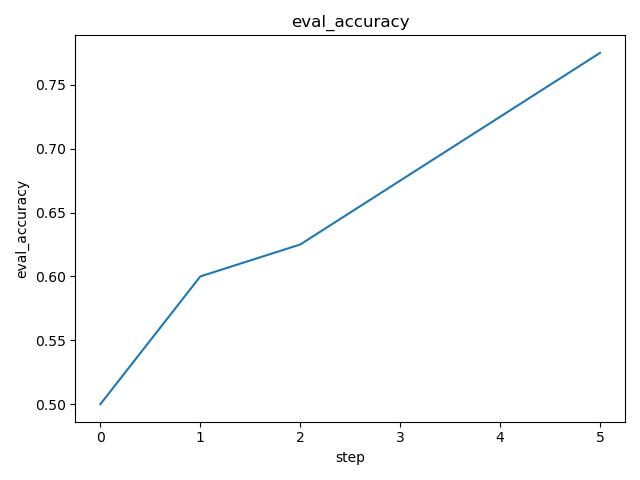
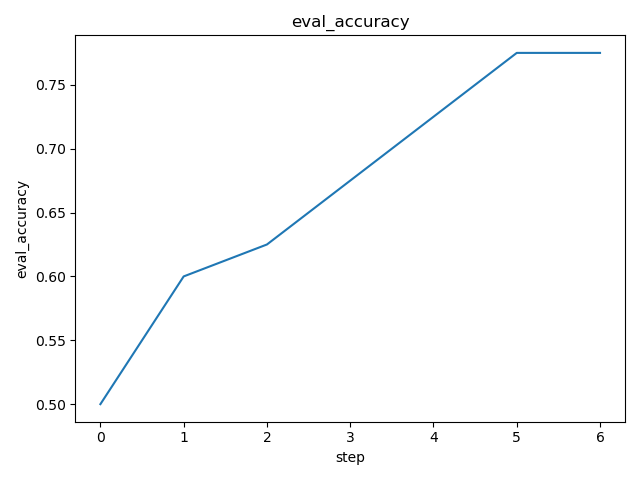
dvc: commit experiment 81f675c034992ea499d87edf490fd17189e7b01ad3ad3483c1606900d66de5fd

diff --git a/data/ogt_protein_classifier/dvclive/report.md b/data/ogt_protein_classifier/dvclive/report.md
@@ -4,7 +4,7 @@ metrics.json
 
 |   loss |   learning_rate |   epoch |   eval_loss |   eval_f1 |   eval_accuracy |   eval_matthew |   eval_runtime |   eval_samples_per_second |   eval_steps_per_second |   step |
 |--------|-----------------|---------|-------------|-----------|-----------------|----------------|----------------|---------------------------|-------------------------|--------|
-| 0.0598 |         3.8e-05 |      12 |    0.629098 |  0.816327 |           0.775 |       0.615882 |         3.2323 |                     24.75 |                   0.619 |      5 |
+| 0.0339 |         3.6e-05 |      14 |     0.72165 |  0.816327 |           0.775 |       0.615882 |          3.934 |                    20.336 |                   0.508 |      6 |
 
 ![static/eval_steps_per_second](static/eval_steps_per_second.png)
 
